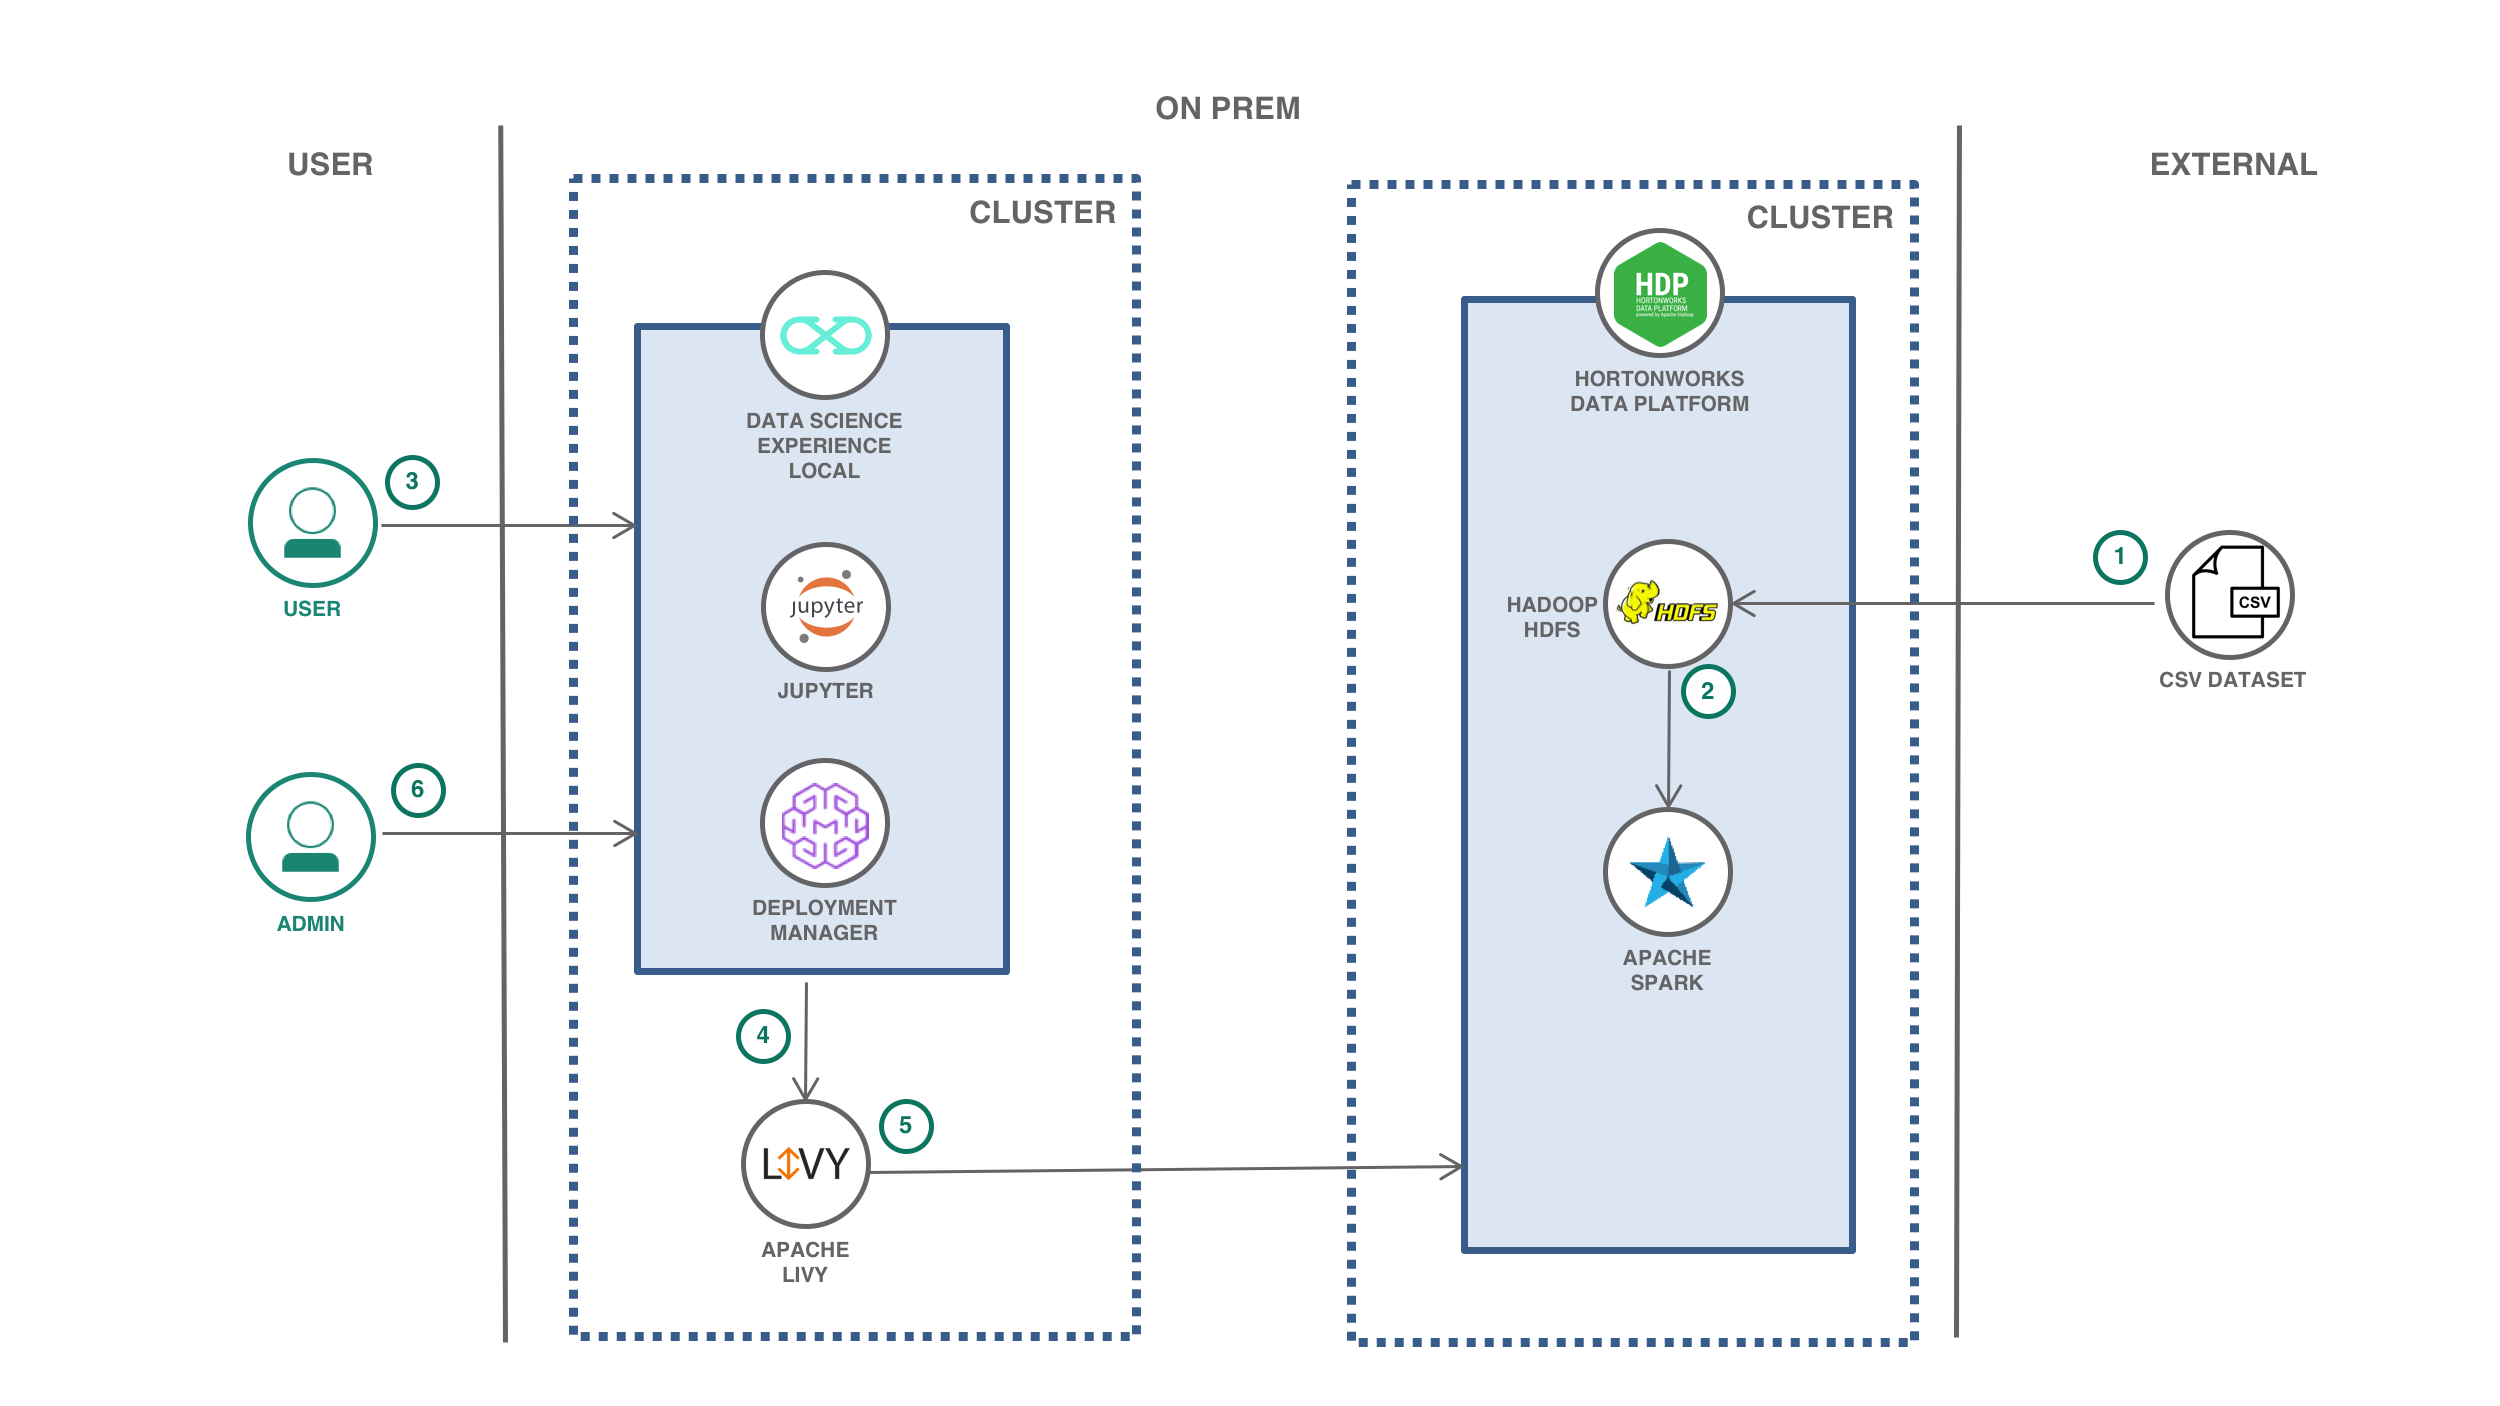
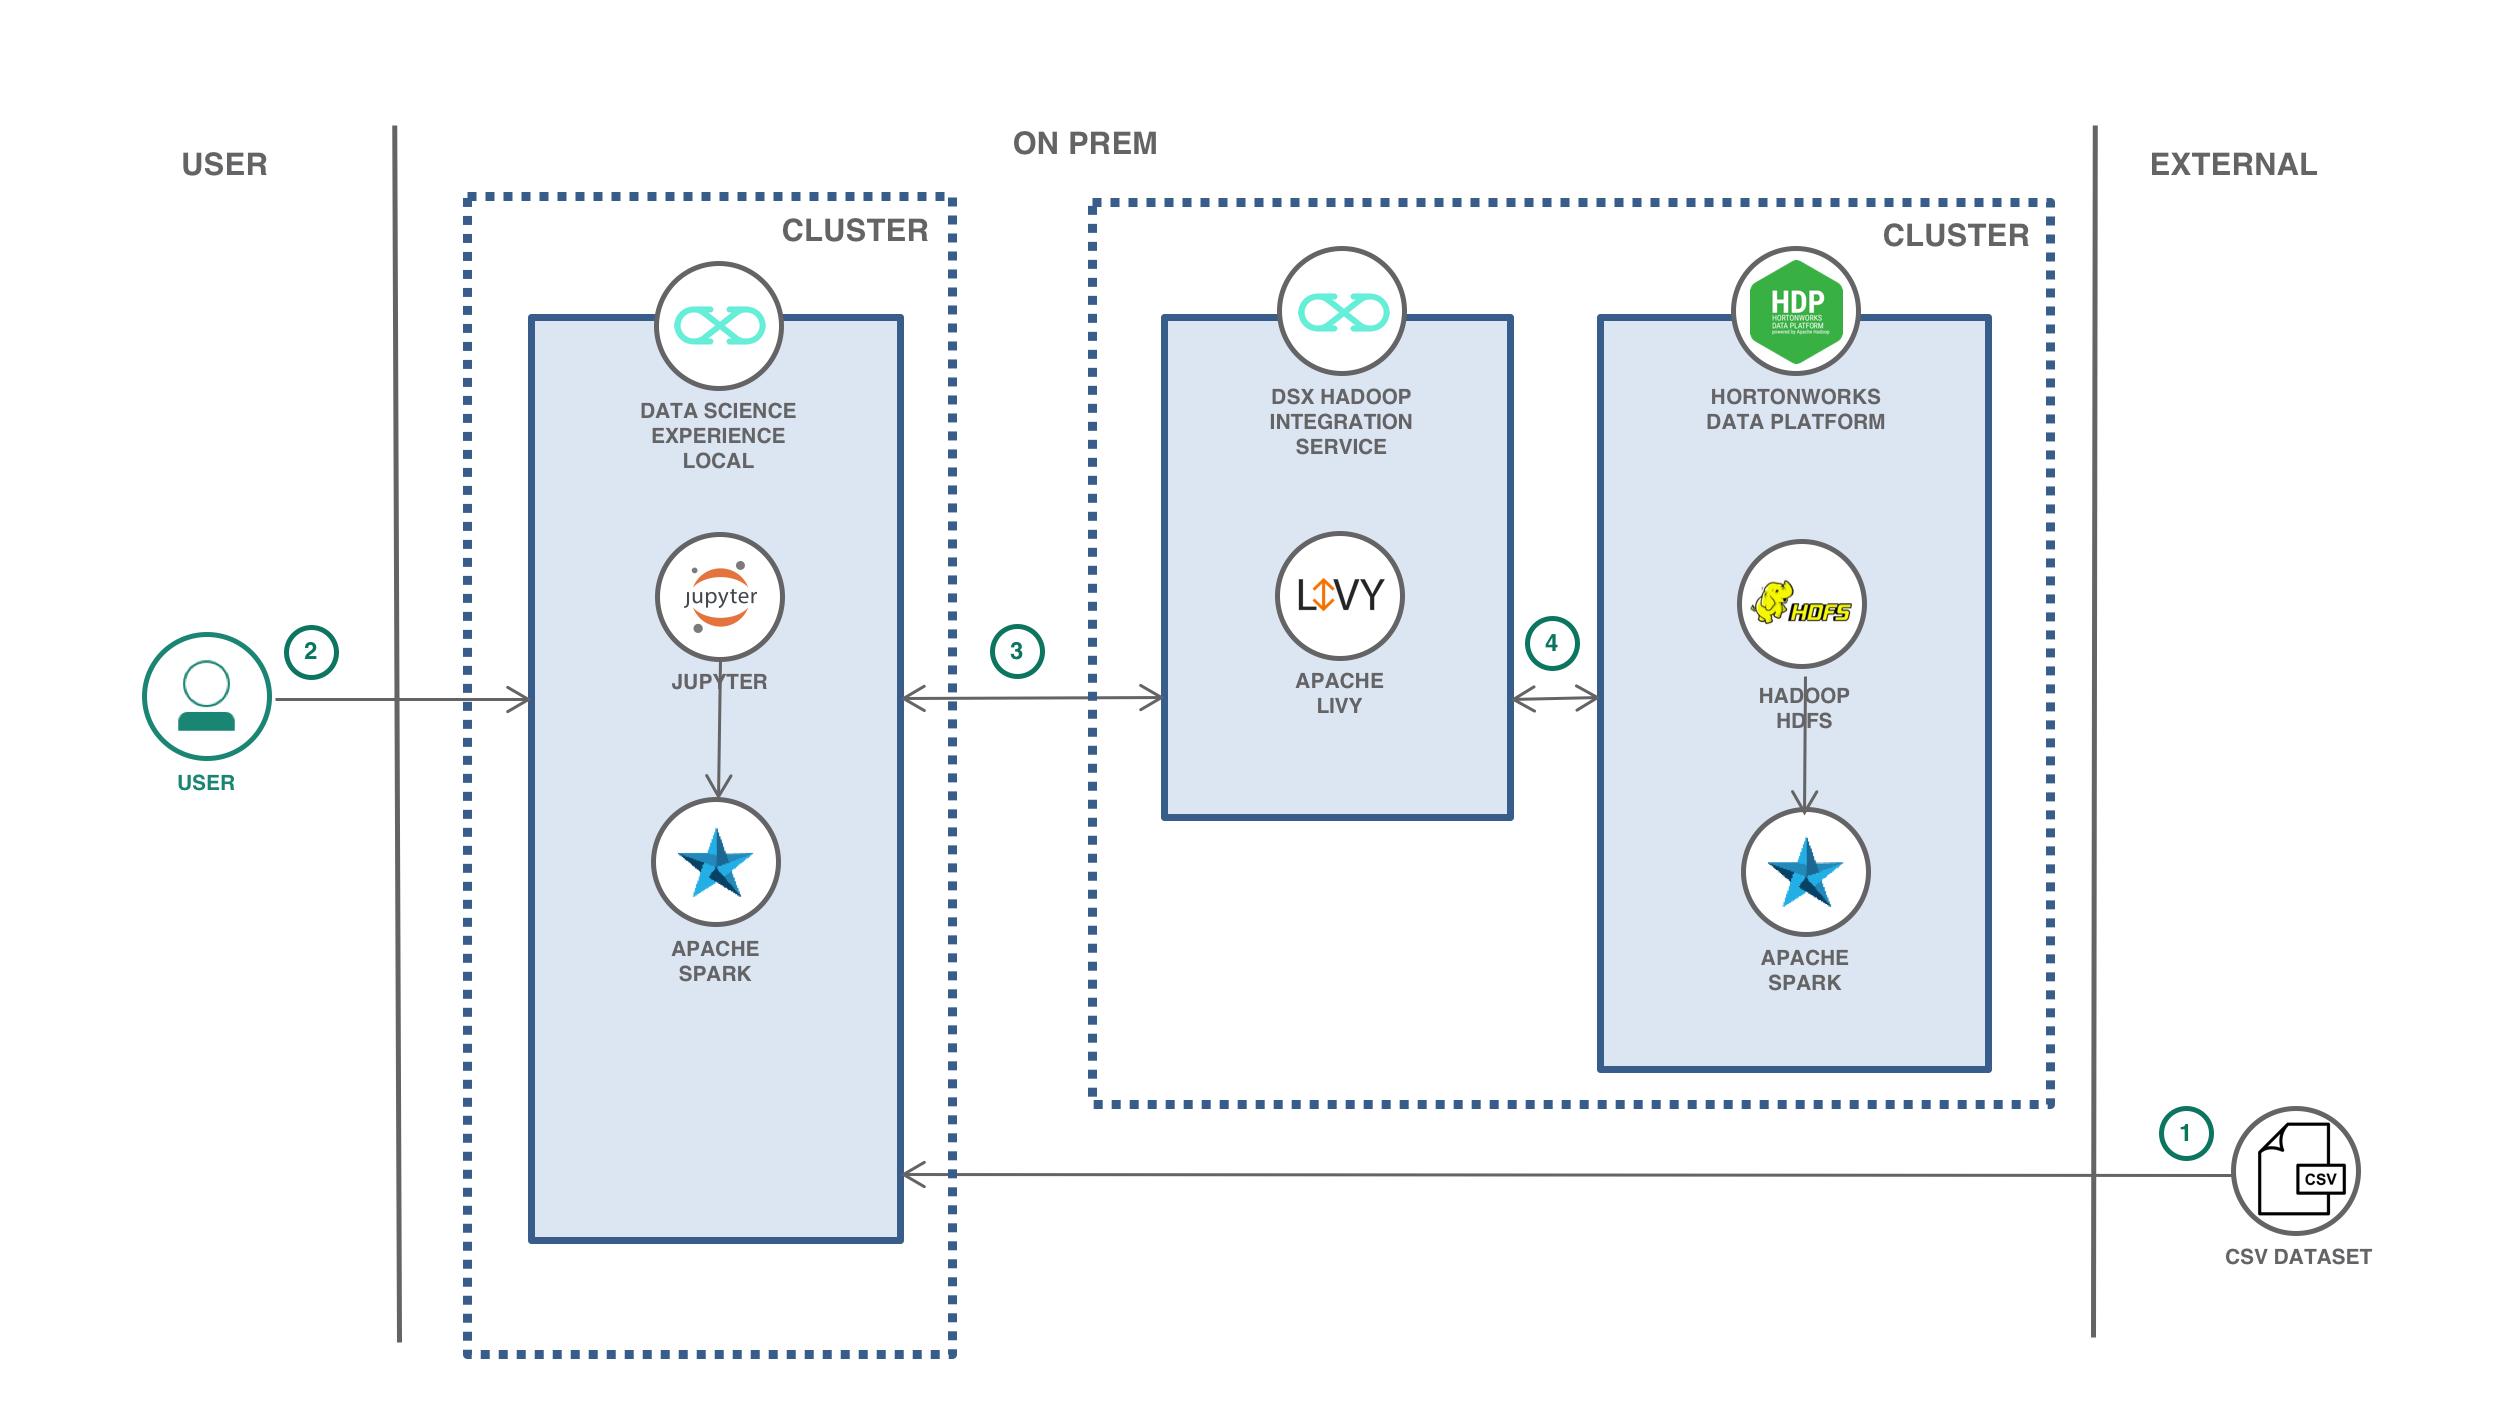
update readme

diff --git a/README.md b/README.md
@@ -36,21 +36,48 @@ As mentioned earlier, this code pattern offers three examples of how to develope
 
 * Develop and train a Spam Filter using pyspark.
 
-  `"Spam Filter on local spark"` uses local spark ML.<br>
-  `"Spam Filter on remote spark"` uses the remote spark in the HDP cluster.
+  `"Spam Filter on local spark"`
+    - Load the spam collection dataset using spark context in DSX Local.
+    - Use Spark Data Pipeline to extract the TF-IDF features and use Spark MLlib to train the Spam Filter pyspark model locally.
+
+  `"Spam Filter on remote spark"`
+    - Push the spam collection dataset to the remote HDFS user directory in the HDP cluster.
+    - Connect to the remote spark context in the HDP cluster via DSXHI using the sparkmagics library.
+    - Uses `%%spark` to run the remote spark context to load, extract and train the Spam Filter pyspark model in the HDP cluster.
 
 * Develop and train a Spam Filter using the 3rd-party library Scikit-learn.
 
-  `"Spam Filter using Scikit learn on local spark"` uses local Scikit-learn.<br>
-  `"Spam Filter using Scikit learn on remote spark"` uses the compute in the HDP cluster.
+  `"Spam Filter using Scikit learn on local spark"`
+    - Load the spam collection dataset using spark context in DSX Local.
+    - Uses scikit-learn libraries to extract the `Bag of Words` features and to train the Spam Filter python model locally.
+
+  `"Spam Filter using Scikit learn on remote spark"`
+    - Push the spam collection dataset to the remote HDFS user directory in the HDP cluster.
+    - Connects to the remote spark context in the HDP cluster via DSXHI using the sparkmagics library.
+    - Use `%%spark` to run the remote spark context to use scikit-learn libraries to extract the `Bag of Words` features and to train the Spam Filter python model in the HDP cluster.
 
 * Package a Spam Filter model as a python egg, then train and deploy the model package remotely in the HDP cluster.
 
-  `"Building the Spam Filter Egg"` uses local spark ML to build and train the model.<br>
-  `"SpamFilter using egg deploy on remote Spark"` deploys and runs the previously built spark ML model leveraging both the remote spark and compute in the HDP cluster.<br>
-  <br>
-  `"Building the Spam Filter Scikit Egg"` uses local Scikit-learn to build and train the model.<br>
-  `"SpamFilter Scikit using egg deploy on remote Spark"` deploys and runs the previously built Scikit-learn model leveraging both the remote spark and compute in the HDP cluster.
+  `"Building the Spam Filter Egg"`
+    - Builds the Spam Filter pyspark model as an egg using provided scripts.
+
+  `"SpamFilter using egg deploy on remote Spark"`
+    - Push the spam collection dataset to the remote HDFS user directory in the HDP cluster.
+    - Push the pyspark egg to the remote HDFS user directory in the HDP cluster.
+    - Connect to remote spark context in HDP cluster via DSXHI using sparkmagics library.
+    - Use `%%spark` to deploy the pyspark egg to the remote HDP cluster.
+    - Use `%%spark` to run the functions provided by pyspark egg to train the Spam Filter model in the HDP cluster.
+
+  `"Building the Spam Filter Scikit Egg"`
+    - Builds the Spam Filter python model as an egg using provided script.<br>
+
+  `"SpamFilter Scikit using egg deploy on remote Spark"`
+    - Push the spam collection dataset to the remote HDFS user directory in the HDP cluster.
+    - Push the python (scikit) egg to the remote HDFS user directory in the HDP cluster.
+    - Connect to remote spark context in HDP cluster via DSXHI using sparkmagics library.
+    - Push the python virtual environment loaded with scikit-learn to the HDP cluster via DSXHI using the sparkmagics library.
+    - Use `%%spark` to deploy the python (scikit) egg to the remote HDP cluster.
+    - Use `%%spark` to run the functions provided by python (scikit) egg to train the Spam Filter model in the HDP cluster.
 
 When you have completed this code pattern, you will understand how to:
 
@@ -65,30 +92,12 @@ When you have completed this code pattern, you will understand how to:
 
 ![](doc/source/images/architecture.png)
 
-**Example 1**:
-1. Load the spam collection dataset using spark context in DSX Local
-2. Use Spark Data Pipeline to extract the TF-IDF features and use Spark MLlib to train the spam filter pyspark model locally
-3. Push the dataset to the remote HDFS user directory in the HDP cluster
-4. Connect to remote spark context in HDP cluster via DSXHI using sparkmagics library
-5. Use %%spark to run the steps 1 and 2 which now uses remote spark context to load, extract and train the spam filter pyspark model in the HDP cluster
+This diagram depicts the major components and actions that make-up the DSX Local and HDP cluster environment.
 
-**Example 2**:
-1. Load the spam collection dataset using pandas in DSX Local
-2. Use scikit-learn libraries to extract the `Bag of Words` features and to train the spam filter python model locally
-3. Push the dataset to the remote HDFS user directory in the HDP cluster
-4. Connect to remote spark context in HDP cluster via DSXHI using sparkmagics library
-5. Push the python virtual environment loaded with scikit-learn to the HDP cluster via DSXHI using sparkmagics library
-6. Use %%spark to run the steps 1 and 2 which now uses remote python compute environment to load, extarct and train the spam filter python model in the HDP cluster
-
-**Example 3**:
-1. Build the Spam filter pyspark model as an egg using the scripts
-2. Build the Spam filter python model as an egg using the scripts
-3. Push the dataset to the remote HDFS user directory in the HDP cluster
-4. Push the pyspark egg and python(scikit) egg to the remote HDFS user directory in the HDP cluster
-5. Connect to remote spark context in HDP cluster via DSXHI using sparkmagics library
-6. Push the python virtual environment loaded with scikit-learn to the HDP cluster via DSXHI using sparkmagics library
-7. Use %%spark to deploy the pyspark egg and python egg to the remote HDP cluster
-5. Use %%spark to run the functions provided by pyspark and python eggs to train the spam filter model in the HDP cluster
+1. The spam collection data set is loaded into DSX Local as an asset.
+2. The user interacts with the Jupyter notebooks by running them in DSX Local. DSX Local can either use the resources available locally, or ...
+3. Utilize HDP cluster resources by connecting to Apache Livy, which is a part of DSXHI.
+4. Livy connects with the HDP cluster to run Apache Spark or access HDFS files.
 
 ## Included components
 
@@ -308,7 +317,7 @@ Note: If you use %spark - it will run the cell contents in local spark in DSX Lo
 
 ![](doc/source/images/Executing-in-remote-spark-context.png)
 
-Run the spam filter pyspark model in remote HDP cluster using %%spark in the beginning of the cell.
+Run the Spam Filter pyspark model in remote HDP cluster using %%spark in the beginning of the cell.
 
 ![](doc/source/images/Spark-ML-Model.png)
 
@@ -316,7 +325,7 @@ Run the spam filter pyspark model in remote HDP cluster using %%spark in the beg
 
 HDP cluster doesn't natively support third party libraries such as scikit-learn, Keras, Tensor flow etc. 
 
-In order to run the spam filter python model built using the scikit-learn library, the python virtual environment used in DSX Local needs to be pushed to the remote HDP cluster as shown below.
+In order to run the Spam Filter python model built using the scikit-learn library, the python virtual environment used in DSX Local needs to be pushed to the remote HDP cluster as shown below.
 
 ![](doc/source/images/Push-python-virtual-environment.png)
 
@@ -336,25 +345,25 @@ Run the spam filter python scikit-learn model in the remote HDP cluster using %%
 
 #### 6. Build Spam Filter Pyspark egg and execute the LRModel in remote HDP cluster
 
-Another approach to running the spam filter model is to package the code that is run via notebooks in previous examples into a egg file and then distribute the egg file across the remote HDP cluster.
+Another approach to running the Spam Filter model is to package the code that is run via notebooks in previous examples into a egg file and then distribute the egg file across the remote HDP cluster.
 
-Once distributed, the model function can be invoked via DSX Local to execute the spam filter model.
+Once distributed, the model function can be invoked via DSX Local to execute the Spam Filter model.
 
-After copying the necessary scripts, run the cell below to build the spam filter pyspark egg.
+After copying the necessary scripts, run the cell below to build the Spam Filter pyspark egg.
 
 ![](doc/source/images/Build-spam-filter-egg.png)
 
-Connect to remote spark in HDP cluster and run the LRModel function using %%spark as notation to execute the spam filter pyspark model.
+Connect to remote spark in HDP cluster and run the LRModel function using %%spark as notation to execute the Spam Filter pyspark model.
 
 ![](doc/source/images/Run-spam-filter-egg.png)
 
 #### 7. Build Spam Filter python egg and execute the LRModelScikit in remote HDP cluster
 
-After copying the necessary scripts, run the cell below to build the spam filter scikit-learn egg.
+After copying the necessary scripts, run the cell below to build the Spam Filter scikit-learn egg.
 
 ![](doc/source/images/Build-scikit-egg.png)
 
-Connect to remote spark in HDP cluster and run the LRModelScikit function using %%spark as notation to execute the spam filter scikit-learn model.
+Connect to remote spark in HDP cluster and run the LRModelScikit function using %%spark as notation to execute the Spam Filter scikit-learn model.
 
 ![](doc/source/images/Run-scikit-egg.png)
 
